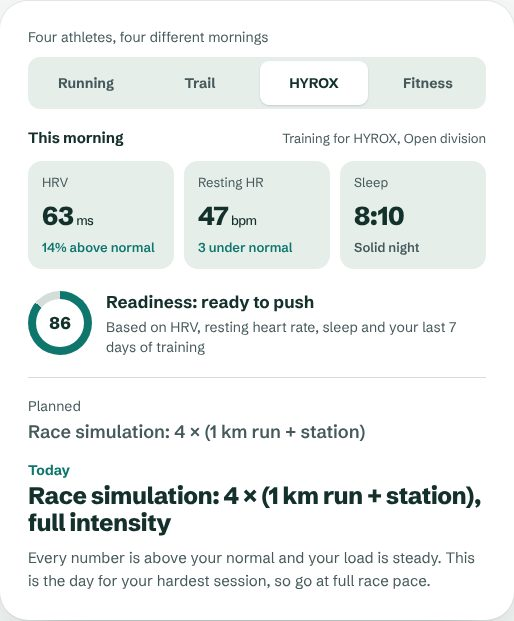
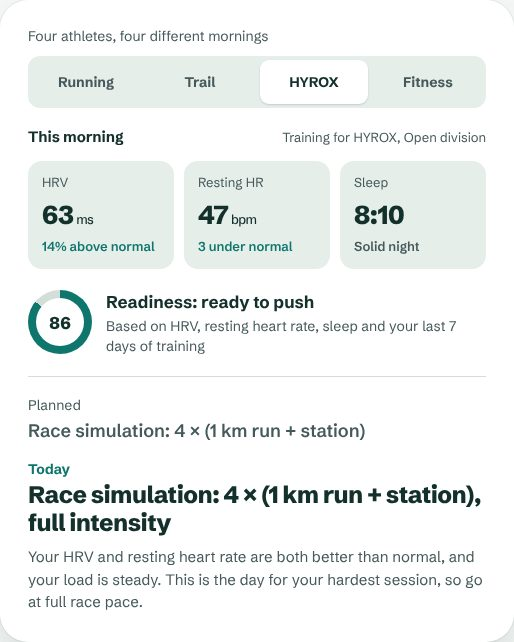
Pre-review fixes: a false HYROX line, three loose claims tests, a chatty live region
The adversarial pre-review found nothing blocking, and these:
- The HYROX morning said "Every number is above your normal" beside a
  resting HR 3 under normal and an ordinary sleep. It now says HRV and
  resting heart rate are both better than normal (pending the owner's OK).
- The "ease" test accepted a YELLOW ring, but the autopilot moves a hard
  session only on RED (on YELLOW it trims in place); RED only now. The ring
  check takes every composite that rounds to the ring, so a band-edge value
  can't pass by luck.
- "Nothing to make up" was checked by finding a phrase in travelMode.ts.
  It now runs buildTravelBatch with only a hotel room and asserts the hills
  become room cardio and nothing is rescheduled (mutating travel mode to
  move the session turns it red).
- Reading tones are worse/better/normal, not low/high: a resting HR under
  normal is better.
- The invite line at the try limit is a live region; it named the coach as
  typed, so every keystroke re-announced it. It now keeps the name from the
  moment of the limit.
- The phone screenshot row takes focus, so a keyboard can scroll it.
- The screenshot check covers any image format and adds a 240 KB total.
- Docs: screen sizes, where the try limit's value lives.

Tests 4656 -> 4661 (335 files), both timezones; lint clean; layout OK
with the switch on and off; Chromium at 1280/390 clean.

Claude-Session: https://claude.ai/code/session_01QNe8QyDmzWEwiZPUJJbmj3

diff --git a/src/__tests__/landing/claims.test.tsx b/src/__tests__/landing/claims.test.tsx
@@ -17,12 +17,11 @@ import { MAX_BLOCK_WEEKS, DELOAD_EVERY } from '../../engines/generalFitness'
 import { CARDIO_MODALITIES } from '../../hooks/useOnboarding'
 import { COACH_TRAITS, COACH_TRAIT_EXCLUSIVE_GROUPS, DEFAULT_COACH_NAME } from '../../types'
 import { classifyStatus } from '../../utils/readiness'
-import { travelSwap } from '../../engines/planGenerator/travelMode'
-import type { PlannedDay } from '../../types'
+import { buildTravelBatch, travelSwap } from '../../engines/planGenerator/travelMode'
+import type { PlannedDay, TrainingWeek } from '../../types'
 import personaEditorSource from '../../components/CoachPersonaEditor.tsx?raw'
 import readinessSource from '../../utils/readiness.ts?raw'
 import verdictSource from '../../utils/verdict.ts?raw'
-import travelModeSource from '../../engines/planGenerator/travelMode.ts?raw'
 import morningOutlookSource from '../../engines/adaptive/morningOutlook.ts?raw'
 
 /** Every string in content.ts: the states one default render never shows (other tabs, form errors, success). */
@@ -208,35 +207,40 @@ describe('Make it yours: the coach traits', () => {
 
 describe('“This morning”: one of each outcome, each true to the app', () => {
   const by = (outcome: C.Outcome) => C.SPORTS.find(s => s.outcome === outcome)!
-  /** The app's status for a 0–100 ring value (compositeToDisplayScore, inverted). */
-  const statusOf = (ring: number) => classifyStatus(ring / 25 - 2)
+  /**
+   * The app's statuses for a 0–100 ring value: every composite that
+   * compositeToDisplayScore rounds to it. A ring on a band edge (81 could be
+   * GREEN or PEAK) yields both, and then the test can't vouch for it.
+   */
+  const statusesOf = (ring: number) => new Set([classifyStatus((ring - 0.5) / 25 - 2), classifyStatus((ring + 0.4999) / 25 - 2)])
 
   it('shows each outcome exactly once', () => {
     expect(C.SPORTS.map(s => s.outcome).sort()).toEqual(['ease', 'peak', 'pivot', 'steady'])
   })
 
   it.each([
-    ['ease', ['RED', 'YELLOW'], 'Readiness: take it easy'],
+    // The autopilot moves a hard session only on RED; on YELLOW it trims it in place.
+    ['ease', ['RED'], 'Readiness: take it easy'],
     ['pivot', ['GREEN'], 'Readiness: good to go'],
     ['steady', ['GREEN'], 'Readiness: good to go'],
     ['peak', ['PEAK'], 'Readiness: ready to push'],
   ] as const)('%s: the ring is in the app’s %j band and says so', (outcome, statuses, title) => {
     const s = by(outcome)
-    expect(statuses as readonly string[]).toContain(statusOf(s.readiness.value))
+    for (const status of statusesOf(s.readiness.value)) expect(statuses as readonly string[]).toContain(status)
     expect(s.readiness.title).toBe(title)
   })
 
   it('the readings point the same way as the ring', () => {
     const tones = (o: C.Outcome) => by(o).metrics.map(m => m.tone)
-    expect(tones('ease')).toContain('low')
-    expect(tones('ease')).not.toContain('high')
-    expect(tones('peak')).toContain('high')
-    expect(tones('peak')).not.toContain('low')
+    expect(tones('ease')).toContain('worse')
+    expect(tones('ease')).not.toContain('better')
+    expect(tones('peak')).toContain('better')
+    expect(tones('peak')).not.toContain('worse')
     expect(tones('steady').every(t => t === 'normal')).toBe(true)
     expect(tones('pivot').every(t => t === 'normal')).toBe(true)
   })
 
-  it('ease: the hard session moves, as the morning autopilot does', () => {
+  it('ease: the hard session moves, as the morning autopilot does on RED', () => {
     expect(morningOutlookSource).toContain('the hard session moves')
     expect(by('ease').why).toMatch(/moves to \w+day/)
   })
@@ -251,8 +255,34 @@ describe('“This morning”: one of each outcome, each true to the app', () => 
     expect(pivot.today).toContain('Room cardio')
     expect(pivot.today).toContain('20 to 30 min')
     expect(pivot.today).toContain('10 min mobility')
-    expect(travelModeSource).toContain('the plan bends forward')
-    expect(pivot.why).toContain('the plan bends forward')
+  })
+
+  it('pivot: nothing to make up — with only a hotel room, travel mode swaps the hills in place and reschedules nothing', () => {
+    const day = (d: string, type: PlannedDay['type'], workout: string): PlannedDay =>
+      ({ day: d, type, workout, detail: workout, zone: 'Z2', route: 'Road', time: '45 min' }) as PlannedDay
+    const week = {
+      num: 9,
+      dates: '',
+      miles: 30,
+      focus: 'Build',
+      startIso: '2026-10-05',
+      days: [
+        day('Mon', 'rest', 'Rest'),
+        day('Tue', 'run', 'Easy run'),
+        day('Wed', 'quality', 'Hill repeats'),
+        day('Thu', 'run', 'Easy run'),
+        day('Fri', 'rest', 'Rest'),
+        day('Sat', 'run', 'Easy run'),
+        day('Sun', 'run', 'Easy run'),
+      ],
+    } as unknown as TrainingWeek
+    const { ops } = buildTravelBatch([week], { startIso: '2026-10-07', endIso: '2026-10-07', kit: 'bodyweight' })
+    // Day edits only: the batch also re-tags the week's mileage and focus.
+    const edits = ops.map(o => o.op as { kind: string; dayIndex: number; updates: Partial<PlannedDay> }).filter(op => op.kind === 'updateDay')
+    expect(edits).toHaveLength(1)
+    expect(edits[0].dayIndex).toBe(2)
+    expect(edits[0].updates.workout).toBe('Room cardio (travel)')
+    expect(by('pivot').why).toContain('Nothing to make up')
   })
 
   it('peak and steady keep the planned session and never add work (the app never does)', () => {

diff --git a/src/landing/content.ts b/src/landing/content.ts
@@ -70,8 +70,12 @@ export type Sport = 'run' | 'trail' | 'hyrox' | 'fit'
  */
 export type Outcome = 'ease' | 'pivot' | 'peak' | 'steady'
 
-/** How a reading compares with the athlete's normal: drawn orange, teal or plain. */
-export type Tone = 'low' | 'high' | 'normal'
+/**
+ * Whether a reading is worse or better than the athlete's normal (drawn orange
+ * or teal), not whether the number is lower or higher: a resting heart rate
+ * over normal is worse, under normal is better.
+ */
+export type Tone = 'worse' | 'better' | 'normal'
 
 /** The “This morning” card: four athletes, four mornings, one of each outcome. Illustrative examples. */
 export const SPORTS = [
@@ -81,8 +85,8 @@ export const SPORTS = [
     outcome: 'ease',
     who: 'Training for a spring half marathon',
     metrics: [
-      { value: '41', note: '18% below normal', tone: 'low' },
-      { value: '56', note: '+5 over normal', tone: 'low' },
+      { value: '41', note: '18% below normal', tone: 'worse' },
+      { value: '56', note: '+5 over normal', tone: 'worse' },
       { value: '5:40', note: 'Short night', tone: 'normal' },
     ],
     readiness: { value: 38, title: 'Readiness: take it easy' },
@@ -113,14 +117,14 @@ export const SPORTS = [
     outcome: 'peak',
     who: 'Training for HYROX, Open division',
     metrics: [
-      { value: '63', note: '14% above normal', tone: 'high' },
-      { value: '47', note: '3 under normal', tone: 'high' },
+      { value: '63', note: '14% above normal', tone: 'better' },
+      { value: '47', note: '3 under normal', tone: 'better' },
       { value: '8:10', note: 'Solid night', tone: 'normal' },
     ],
     readiness: { value: 86, title: 'Readiness: ready to push' },
     planned: 'Race simulation: 4 × (1 km run + station)',
     today: 'Race simulation: 4 × (1 km run + station), full intensity',
-    why: 'Every number is above your normal and your load is steady. This is the day for your hardest session, so go at full race pace.',
+    why: 'Your HRV and resting heart rate are both better than normal, and your load is steady. This is the day for your hardest session, so go at full race pace.',
     chartCaption: 'The race simulation stays, at full intensity, so week 9 lands as planned.',
   },
   {

diff --git a/src/landing/state.ts b/src/landing/state.ts
@@ -13,8 +13,17 @@ export interface LandingState {
   /** Index into COACH.questions. */
   question: number
   approved: boolean
-  /** Personality and question changes so far; at COACH.tryLimit the demo stops changing. */
+  /**
+   * Personality and question changes so far; at COACH.tryLimit (content.ts)
+   * new personalities and questions are ignored. Reset still works.
+   */
   tries: number
+  /**
+   * The coach's name when the limit was reached. The invite line is a live
+   * region, so it names the coach as it was then rather than re-announcing
+   * on every keystroke in the name field.
+   */
+  limitName: string | null
 }
 
 export type LandingAction =
@@ -34,11 +43,18 @@ export const INITIAL_STATE: LandingState = {
   question: 0,
   approved: false,
   tries: 0,
+  limitName: null,
 }
 
 /** Whether the visitor has used up the demo's changes for this visit. */
 export function atTryLimit(state: LandingState): boolean {
   return state.tries >= COACH.tryLimit
+}
+
+/** Spend one try, noting the coach's name if that was the last one. */
+function spendTry(state: LandingState): Pick<LandingState, 'tries' | 'limitName'> {
+  const tries = state.tries + 1
+  return { tries, limitName: tries >= COACH.tryLimit ? state.coachName : state.limitName }
 }
 
 /**
@@ -59,10 +75,10 @@ export function landingReducer(state: LandingState, action: LandingAction): Land
       return { ...state, coachName: action.name.slice(0, MAKE.nameMaxLength) }
     case 'personality':
       if (action.id === state.personality || atTryLimit(state)) return state
-      return { ...state, personality: action.id, tries: state.tries + 1 }
+      return { ...state, personality: action.id, ...spendTry(state) }
     case 'ask':
       if (atTryLimit(state)) return state
-      return { ...state, question: (state.question + 1) % COACH.questions.length, approved: false, tries: state.tries + 1 }
+      return { ...state, question: (state.question + 1) % COACH.questions.length, approved: false, ...spendTry(state) }
     case 'reset':
       return {
         ...state,

diff --git a/src/__tests__/deploy/checkSiteLayout.test.ts b/src/__tests__/deploy/checkSiteLayout.test.ts
@@ -12,6 +12,7 @@ import {
   GUARD_BUDGET_BYTES,
   PAGE_BUDGET_BYTES,
   SCREEN_BUDGET_BYTES,
+  SCREENS_TOTAL_BUDGET_BYTES,
   type ReadOnlyFs,
 } from '../../../scripts/deploy/check-site-layout.mjs'
 
@@ -126,6 +127,19 @@ describe('checkSiteLayout', () => {
     it('fails when one is over budget', () => {
       write('landing/app/today.webp', new Uint8Array(SCREEN_BUDGET_BYTES + 1))
       expect(check().join('\n')).toContain(`dist/landing/app/today.webp is ${SCREEN_BUDGET_BYTES + 1} bytes, over the ${SCREEN_BUDGET_BYTES}-byte screenshot budget`)
+    })
+
+    it('checks screenshots in any image format, not just WebP', () => {
+      write('assets/shared-def.js', "const S = ['/landing/app/today.png']")
+      expect(check()).toEqual(['the landing page shows /landing/app/today.png, but dist/landing/app/today.png is missing'])
+    })
+
+    it('fails when they are each within budget but too heavy together', () => {
+      const n = Math.ceil(SCREENS_TOTAL_BUDGET_BYTES / SCREEN_BUDGET_BYTES) + 1
+      const names = Array.from({ length: n }, (_, i) => `/landing/app/s${i}.webp`)
+      write('assets/shared-def.js', JSON.stringify(names))
+      for (const n of names) write(n.slice(1), new Uint8Array(SCREEN_BUDGET_BYTES))
+      expect(check().join('\n')).toContain(`over the ${SCREENS_TOTAL_BUDGET_BYTES}-byte budget`)
     })
 
     it('ignores screenshots the app bundle names (only the landing page’s count)', () => {

diff --git a/src/__tests__/landing/interactions.test.tsx b/src/__tests__/landing/interactions.test.tsx
@@ -410,10 +410,11 @@ describe('ask something else, reset and the try limit', () => {
     expect(traits.getByRole('button', { name: 'Old School' })).toHaveAttribute('aria-disabled', 'true')
     expect(traits.getByRole('button', { name: 'Data Nerd' })).not.toHaveAttribute('aria-disabled')
 
-    // The name is free, and the message follows it.
+    // The name is still free, but the live invite keeps the name it had, so a
+    // screen reader doesn't re-read it on every keystroke.
     await user.clear(nameInput())
     await user.type(nameInput(), 'Kip')
-    expect(limit()).toHaveTextContent('to keep talking to Kip.')
+    expect(limit()).toHaveTextContent(`to keep talking to ${MAKE.defaultName}.`)
   })
 
   it('Reset after the limit puts the demo back but gives no tries back', async () => {
@@ -438,7 +439,7 @@ describe('keyboard', () => {
   it('every control is reachable by Tab, in page order, and none is skipped', async () => {
     const { user, root } = setup()
     const controls = [
-      ...root.querySelectorAll<HTMLElement>('a[href], button:not([disabled]), input:not([disabled]), summary'),
+      ...root.querySelectorAll<HTMLElement>('a[href], button:not([disabled]), input:not([disabled]), summary, [tabindex="0"]'),
     ].filter(el => !el.closest('[aria-hidden="true"]'))
     const reached: HTMLElement[] = []
     for (let i = 0; i < controls.length; i++) {

diff --git a/src/landing/components/CoachDemo.tsx b/src/landing/components/CoachDemo.tsx
@@ -10,6 +10,8 @@ interface Props {
   approved: boolean
   /** No more personality or question changes this visit. */
   limitReached: boolean
+  /** The coach's name when the limit was reached (state.ts `limitName`). */
+  limitName?: string | null
   onApprove?: () => void
   onAsk?: () => void
   onReset?: () => void
@@ -20,7 +22,7 @@ interface Props {
  * (design-spec.md § CoachDemo). The input and mic are decorative and
  * disabled, so nobody types into a fake chat.
  */
-export function CoachDemo({ coachName, personality, question, approved, limitReached, onApprove, onAsk, onReset }: Props) {
+export function CoachDemo({ coachName, personality, question, approved, limitReached, limitName, onApprove, onAsk, onReset }: Props) {
   const name = coachDisplayName(coachName)
   const q: CoachQuestion = COACH.questions[question] ?? COACH.questions[0]
   // Approve replaces the button that had focus; keep the visitor's place.
@@ -126,7 +128,7 @@ export function CoachDemo({ coachName, personality, question, approved, limitRea
               {COACH.limitLink}
             </a>
             {COACH.limitTail}
-            {name}
+            {coachDisplayName(limitName ?? coachName)}
             {COACH.limitEnd}
           </>
         )}

diff --git a/src/__tests__/landing/state.test.ts b/src/__tests__/landing/state.test.ts
@@ -18,6 +18,7 @@ describe('the initial state', () => {
       question: 0,
       approved: false,
       tries: 0,
+      limitName: null,
     })
   })
 })
@@ -105,6 +106,13 @@ describe('the try limit', () => {
   it('then ignores new personalities and questions', () => {
     expect(landingReducer(used, { type: 'personality', id: 'old-school' })).toBe(used)
     expect(landingReducer(used, { type: 'ask' })).toBe(used)
+  })
+
+  it('remembers the coach’s name at the moment the limit was reached, and only then', () => {
+    expect(run({ type: 'name', name: 'Kip' }, { type: 'ask' }, { type: 'ask' }).limitName).toBeNull()
+    const s = run({ type: 'name', name: 'Kip' }, { type: 'ask' }, { type: 'ask' }, { type: 'ask' }, { type: 'name', name: 'Zed' })
+    expect(s.limitName).toBe('Kip')
+    expect(landingReducer(s, { type: 'reset' }).limitName).toBe('Kip')
   })
 
   it('still lets the visitor type a name and approve', () => {

diff --git a/src/landing/components/AppScreens.tsx b/src/landing/components/AppScreens.tsx
@@ -11,8 +11,10 @@ export function AppScreens() {
       <div className="mx-auto max-w-landing px-6 py-24">
         <h2 className="m-0 text-[clamp(32px,4vw,48px)] font-extrabold leading-[1.05] tracking-[-0.03em]">{SCREENS.title}</h2>
         <p className="m-0 mt-4 max-w-[30em] text-lg leading-[1.55] text-landing-muted">{SCREENS.intro}</p>
+        {/* Focusable so the phone row can be scrolled from a keyboard; nothing inside it takes focus. */}
         <ul
           aria-label={SCREENS.title}
+          tabIndex={0}
           className="-mx-6 m-0 mt-10 flex list-none snap-x snap-mandatory scroll-px-6 items-start gap-5 overflow-x-auto px-6 pb-4 sm:mx-0 sm:block sm:columns-2 sm:gap-6 sm:overflow-visible sm:px-0 sm:pb-0 lg:columns-3"
         >
           {SCREENS.items.map(s => (

diff --git a/src/__tests__/landing/content.test.ts b/src/__tests__/landing/content.test.ts
@@ -62,7 +62,7 @@ const COPY_MD = [
   '63', '14% above normal', '47', '3 under normal', '8:10', 'Solid night', 'Readiness: ready to push',
   'Training for HYROX, Open division', 'Race simulation: 4 × (1 km run + station)',
   'Race simulation: 4 × (1 km run + station), full intensity',
-  'Every number is above your normal and your load is steady. This is the day for your hardest session, so go at full race pace.',
+  'Your HRV and resting heart rate are both better than normal, and your load is steady. This is the day for your hardest session, so go at full race pace.',
   'The race simulation stays, at full intensity, so week 9 lands as planned.',
   // Fitness: neutral
   '50', '7:25', 'Normal night',

diff --git a/src/__tests__/landing/LandingPage.test.tsx b/src/__tests__/landing/LandingPage.test.tsx
@@ -94,6 +94,10 @@ describe('the default state (PR 4 wires the interactions)', () => {
     expect(root.querySelector<HTMLInputElement>('#coach-ask')!.placeholder).toBe(`Ask ${MAKE.defaultName} anything`)
   })
 
+  it('the screens row can take focus, so a keyboard can scroll it on a phone', () => {
+    expect(root.querySelector(`ul[aria-label="${SCREENS.title}"]`)).toHaveAttribute('tabindex', '0')
+  })
+
   it('shows every app screen, lazy-loaded, sized, with alt text and a caption', () => {
     const imgs = [...root.querySelectorAll<HTMLImageElement>('img')]
     expect(imgs.map(i => i.getAttribute('src'))).toEqual(SCREENS.items.map(s => s.src))

diff --git a/src/landing/LandingPage.tsx b/src/landing/LandingPage.tsx
@@ -64,6 +64,7 @@ export function LandingPage() {
             question={state.question}
             approved={state.approved}
             limitReached={limitReached}
+            limitName={state.limitName}
             onApprove={() => dispatch({ type: 'approve' })}
             onAsk={() => dispatch({ type: 'ask' })}
             onReset={() => dispatch({ type: 'reset' })}

diff --git a/src/landing/components/MorningCard.tsx b/src/landing/components/MorningCard.tsx
@@ -8,8 +8,8 @@ interface Props {
 }
 
 const NOTE_TONE: Record<Tone, string> = {
-  low: 'text-landing-signal-text',
-  high: 'text-landing-action',
+  worse: 'text-landing-signal-text',
+  better: 'text-landing-action',
   normal: 'text-landing-muted',
 }
 
